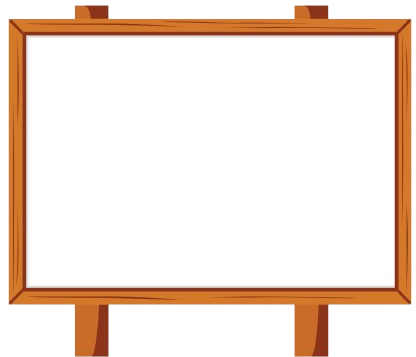
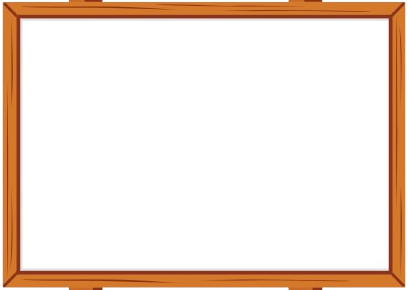
(feat): create game screen and add relevant assets

Changed region(s): [[0.0, 0.0, 0.9976, 1.0]]

diff --git a/features/public/game/gameScreen.tsx b/features/public/game/gameScreen.tsx
@@ -1,14 +1,70 @@
+import { WIDTH } from '@/shared/utils/utils'
+import bg from '@assets/images/bg.png'
+import board from '@assets/images/Board.png'
+import llama from '@assets/images/LlamaStick.png'
 import React from 'react'
-import { StyleSheet, Text, View } from 'react-native'
+import { Image, ImageBackground, StyleSheet, Text, View } from 'react-native'
+import Option from './components/option'
+import useGame from './viewmodel/useGame'
 
 const GameScreen = () => {
+  const {
+    options
+  } = useGame()
   return (
-    <View>
-      <Text>GameScreen</Text>
-    </View>
+    <ImageBackground source={bg} style={styles.container}>
+
+      <ImageBackground imageStyle={{resizeMode:'stretch'}} source={board} style={styles.img}>
+        <Text style={styles.text}>sadadasd</Text>
+      </ImageBackground>
+      <View style={styles.optionContainer}>
+{options.map((v,i)=>
+<Option onPress={()=>{}} key={i} selected={i==3} correct={false} option={v}/>
+)}
+</View>
+<Image source={llama} style={styles.llama}/>
+
+    </ImageBackground>
   )
 }
 
 export default GameScreen
 
-const styles = StyleSheet.create({})
+const styles = StyleSheet.create({
+  container:{
+    flex:1,
+    justifyContent:'center',
+    alignItems:'center'
+  },
+  img:{
+    flex:.5,
+    width:WIDTH,
+    marginVertical:30,
+    // justifyContent:'center',
+    paddingHorizontal:40,
+    paddingTop:40,
+    overflow:'hidden',
+  },
+  optionContainer:{
+    flex:.5,
+    flexDirection:'row',
+    flexWrap:'wrap',
+    justifyContent:'space-around',
+    // alignItems:'center',
+    // borderWidth:1,
+    alignContent:'flex-start',
+    paddingTop:30
+  },
+  llama:{
+    position:'absolute',
+    width:200,
+    resizeMode:'contain',
+    top:50,
+    right:-18,
+    transform:[{rotate:'-0deg'}],
+    zIndex:1
+  },
+  text:{
+    fontFamily:'Rubik-Medium'
+  }
+})

diff --git a/features/public/game/components/option.tsx b/features/public/game/components/option.tsx
@@ -1,0 +1,53 @@
+import Colors from '@/shared/themes/Colors'
+import bg from '@assets/images/Rect-button.png'
+import greenbutton from '@assets/images/RectButtonGreen.png'
+import redButton from '@assets/images/RectButtonRed.png'
+import React from 'react'
+import { ImageBackground, StyleSheet, Text, TouchableOpacity } from 'react-native'
+import { optionProps } from '../types/gameTypes'
+
+const Option = ({option,onPress,selected,correct}:optionProps) => {
+  return (
+    <TouchableOpacity
+  onPress={onPress}
+  activeOpacity={0.9}
+  style={styles.container}
+>
+  <ImageBackground
+    source={selected ? correct ?  greenbutton : redButton : bg}
+    style={styles.innerContainer}
+    imageStyle={styles.imageStyle}
+  >
+    <Text style={styles.text}>{option}</Text>
+  </ImageBackground>
+</TouchableOpacity>
+
+  )
+}
+
+export default Option
+
+const styles = StyleSheet.create({
+  container: {
+    width: 180,
+    height: 50,
+    overflow: 'hidden',
+    marginVertical: 10,
+    zIndex:3
+  },
+  innerContainer: {
+    flex: 1,
+    justifyContent: 'center',
+    alignItems: 'center',
+  },
+  imageStyle: {
+    width: '100%',
+    height: '100%',
+    resizeMode: 'stretch',
+  },
+  text: {
+    fontFamily: 'BagelFat',
+    fontSize: 14,
+    color: Colors.white,
+  },
+})

diff --git a/features/public/option/components/rectOptions.tsx b/features/public/option/components/rectOptions.tsx
@@ -7,7 +7,7 @@ import { rectOptionProps } from '../types/optionTypes'
 const RectOption = ({subject,onPress,selected}:rectOptionProps) => {
   return (
     <TouchableOpacity onPress={onPress} activeOpacity={0.9} style={[styles.container,{transform:[{scale:selected ? 1 : 0.7}]}]}>
-        <ImageBackground source={bg} style={styles.innerContainer}>
+        <ImageBackground imageStyle={{resizeMode:'stretch'}} source={bg} style={styles.innerContainer}>
              <Text style={styles.text}>{subject}</Text>
         </ImageBackground>
     </TouchableOpacity>
@@ -19,9 +19,6 @@ export default RectOption
 const styles = StyleSheet.create({
     container:{
         width:180,
-        // height:60,
-        // borderRadius:100,
-        // borderWidth:1,
         overflow:'hidden'
         
     },

diff --git a/features/public/game/viewmodel/useGame.tsx b/features/public/game/viewmodel/useGame.tsx
@@ -1,0 +1,7 @@
+
+const useGame = () => {
+    const options : string[] = ["a","b","c","d"]
+    return {options}
+}
+
+export default useGame

diff --git a/features/public/game/types/gameTypes.ts b/features/public/game/types/gameTypes.ts
@@ -1,0 +1,6 @@
+export type optionProps={
+    option:string,
+    onPress:()=>void,
+    selected:boolean,
+    correct:boolean
+}
